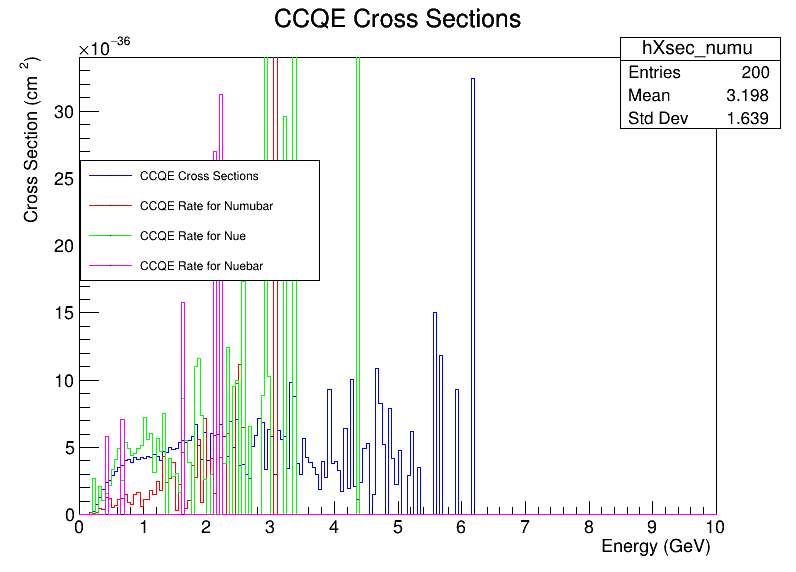
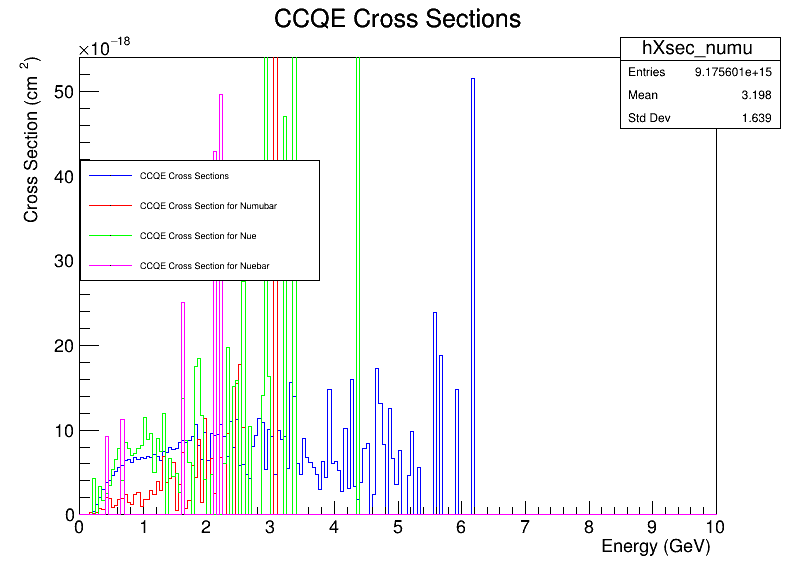
correcting some scale factor in plotccqe macro

diff --git a/macros/plotccqe.C b/macros/plotccqe.C
@@ -15,7 +15,7 @@ void plotccqe(const char* filename = "/exp/uboone/data/users/jburridg/Nuance/NUA
     //////////////////////////////////////////////////////////////////////// //
     Float_t secs_per_file = 1e10; //need to get this from the -secs file; total -secs exposre is the pot.
     Float_t pot_per_sec = 1.17e6;
-    Float_t num_files = 2716; //need to get this from the -secs file; total number of files is the number of files that were hadd'd together.
+    Int_t num_files = 2032; //need to get this from the -secs file; total number of files is the number of files that were hadd'd together.
     Float_t N_target = 1.113e31; //number of target nucleons in the detector, needed to get cross section from rate.
     Float_t scale_factor = pot_per_sec * secs_per_file * num_files; //this is the factor we need to divide the event numbers by to get the actual event rates. 
     std::cout << "Scale factor: " << scale_factor << std::endl;
@@ -99,7 +99,12 @@ void plotccqe(const char* filename = "/exp/uboone/data/users/jburridg/Nuance/NUA
         2.280, 2.340, 2.400, 2.460, 2.525, 2.575, 2.600, 2.650, 2.700,
         2.750, 2.800, 2.850, 2.900, 2.950, 3.000, 3.050, 3.100, 3.150,
         3.200, 3.250, 3.300, 3.350, 3.400, 3.450, 3.500, 3.550, 3.600,
-        3.650, 3.700, 3.750, 3.800
+        3.650, 3.700, 3.750, 3.800, 3.850, 3.900, 3.950, 4.000, 4.050, 
+        4.100, 4.150, 4.200, 4.250, 4.300, 4.350, 4.400, 4.450, 4.500, 
+        4.550, 4.600, 4.650, 4.700, 4.750, 4.800, 4.850, 4.900, 4.950, 
+        5.000, 5.050, 5.100, 5.150, 5.200, 5.250, 5.300, 5.350, 5.400, 
+        5.450, 5.500, 5.550, 5.600, 5.650, 5.700, 5.750, 5.800, 5.850,
+         5.900, 5.950, 6.000
     };
     const Int_t nBins = sizeof(binEdges)/sizeof(binEdges[0]) - 1; // 65 bins
 
@@ -108,11 +113,14 @@ void plotccqe(const char* filename = "/exp/uboone/data/users/jburridg/Nuance/NUA
     //           this is for comparison with Fig. 6.5 in Jens thesis. 
     // ------------------------------------------------------------------ //
      
-    TH1D* hRate_numu    = new TH1D("hRate_numu",    "CCQE Rate for Numu;Neutrino Energy (GeV);Event Rate [#nu/PoT/GeV]",    nBins, binEdges);
-    TH1D* hRate_numubar = new TH1D("hRate_numubar", "CCQE Rate for Numubar;Neutrino Energy (GeV);Event Rate [#nu/PoT/GeV]", nBins, binEdges);
-    TH1D* hRate_nue     = new TH1D("hRate_nue",     "CCQE Rate for Nue;Neutrino Energy (GeV);Event Rate [#nu/PoT/GeV]",     nBins, binEdges);
-    TH1D* hRate_nuebar  = new TH1D("hRate_nuebar",  "CCQE Rate for Nuebar;Neutrino Energy (GeV);Event Rate [#nu/PoT/GeV]",  nBins, binEdges);
-
+    TH1D* hRate_numu    = new TH1D("hRate_numu",    "CCQE Rate for Numu;Neutrino Energy (GeV);Event Rate [#nu/PoT/50 MeV]",    nBins, binEdges);
+    TH1D* hRate_numubar = new TH1D("hRate_numubar", "CCQE Rate for Numubar;Neutrino Energy (GeV);Event Rate [#nu/PoT/50 MeV]", nBins, binEdges);
+    TH1D* hRate_nue     = new TH1D("hRate_nue",     "CCQE Rate for Nue;Neutrino Energy (GeV);Event Rate [#nu/PoT/50 MeV]",     nBins, binEdges);
+    TH1D* hRate_nuebar  = new TH1D("hRate_nuebar",  "CCQE Rate for Nuebar;Neutrino Energy (GeV);Event Rate [#nu/PoT/50 MeV]",  nBins, binEdges);
+    TH1D* hXsec_numu    = new TH1D("hXsec_numu",    "CCQE Cross Section for Numu;Neutrino Energy (GeV);Cross Section (cm^{2})", 200, 0, 10);
+    TH1D* hXsec_numubar = new TH1D("hXsec_numubar", "CCQE Cross Section for Numubar;Neutrino Energy (GeV);Cross Section (cm^{2})", 200, 0, 10);
+    TH1D* hXsec_nue     = new TH1D("hXsec_nue",     "CCQE Cross Section for Nue;Neutrino Energy (GeV);Cross Section (cm^{2})", 200, 0, 10);
+    TH1D* hXsec_nuebar  = new TH1D("hXsec_nuebar",  "CCQE Cross Section for Nuebar;Neutrino Energy (GeV);Cross Section (cm^{2})", 200, 0, 10);
 
     Int_t   ccqe_events_filled = 0; //counter to keep track of how many ccqe events we fill in total.
 
@@ -125,12 +133,16 @@ void plotccqe(const char* filename = "/exp/uboone/data/users/jburridg/Nuance/NUA
         if (channel == 1) { //only want CCQE events.
             if (neutrino == 14) { //filling Numu
                 hRate_numu->Fill(energy/1000); //convert energy to GeV for plotting
+                hXsec_numu->Fill(energy/1000); //convert energy to GeV for plotting
             } else if (neutrino == -14) { //filling Numubar
-                hRate_numubar->Fill(energy/1000); //convert energy to GeV for plotting      
+                hRate_numubar->Fill(energy/1000); //convert energy to GeV for plotting
+                hXsec_numubar->Fill(energy/1000); //convert energy to GeV for plotting
             } else if (neutrino == 12) { //filling Nue
                 hRate_nue->Fill(energy/1000); //convert energy to GeV for plotting
+                hXsec_nue->Fill(energy/1000); //convert energy to GeV for plotting
             } else if (neutrino == -12) { //filling Nuebar
                 hRate_nuebar->Fill(energy/1000); //convert energy to GeV for plotting
+                hXsec_nuebar->Fill(energy/1000); //convert energy to GeV for plotting
             }
             // add counter for ccqe events filled
             ccqe_events_filled++;
@@ -141,22 +153,41 @@ void plotccqe(const char* filename = "/exp/uboone/data/users/jburridg/Nuance/NUA
 
    
 
-    //Divide by bin width and scale factor to get actual event rates per MeV for RATES histograms:
-    for (int i = 1; i <= hRate_numu->GetNbinsX(); i++) {
-        double binWidth = hRate_numu->GetBinWidth(i);
-        hRate_numu   ->SetBinContent(i, hRate_numu->GetBinContent(i) / (binWidth * scale_factor));
-        hRate_numubar->SetBinContent(i, hRate_numubar->GetBinContent(i) / (binWidth * scale_factor));
-        hRate_nue    ->SetBinContent(i, hRate_nue->GetBinContent(i) / (binWidth * scale_factor));
-        hRate_nuebar ->SetBinContent(i, hRate_nuebar->GetBinContent(i) / (binWidth * scale_factor));
-    }
+    ///////////////////////////////////////////////////////////////////////////
+// Convert event counts to events / POT / 50 MeV
+//
+// Each variable-width bin contains:
+//
+//    N_events
+//
+// We want:
+//
+//    N_events / ( POT × (ΔE/50MeV) )
+//
+// where ΔE is the bin width in GeV.
+//
+// Since 50 MeV = 0.05 GeV:
+//
+//    N_events / ( POT × ΔE/0.05 )
+//
+//////////////////////////////////////////////////////////////////////////
+
+const double fiftyMeV = 0.05; // GeV
+
+for (int i = 1; i <= hRate_numu->GetNbinsX(); i++) {
+
+    double widthGeV = hRate_numu->GetBinWidth(i);
+    double widthIn50MeVBins = widthGeV /fiftyMeV;
+    double norm = scale_factor * widthIn50MeVBins;
+
+    hRate_numu->SetBinContent(i,hRate_numu->GetBinContent(i) / norm);
+    hRate_numubar->SetBinContent(i,hRate_numubar->GetBinContent(i) / norm);
+    hRate_nue->SetBinContent(i,hRate_nue->GetBinContent(i) / norm);
+    hRate_nuebar->SetBinContent(i,hRate_nuebar->GetBinContent(i) / norm);
+}
 
     //copy rates histograms to new histograms for cross sections, which we will get by dividing the rates by the flux:
     //rename the axes 
-
-    TH1D* hXsec_numu    = (TH1D*)hRate_numu->Clone("hXsec_numu");
-    TH1D* hXsec_numubar = (TH1D*)hRate_numubar->Clone("hXsec_numubar");
-    TH1D* hXsec_nue     = (TH1D*)hRate_nue->Clone("hXsec_nue");
-    TH1D* hXsec_nuebar  = (TH1D*)hRate_nuebar->Clone("hXsec_nuebar");
 
     //Divide by flux to get cross secion in units of cm^-2 for XSEC histograms:
     hXsec_numu   ->Divide(hFlux_numu);
